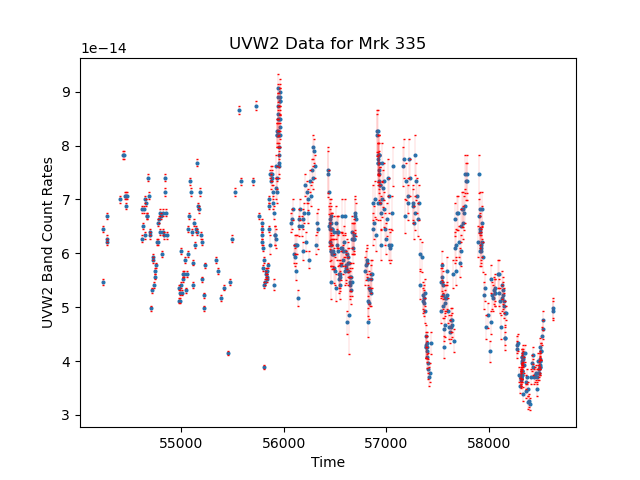
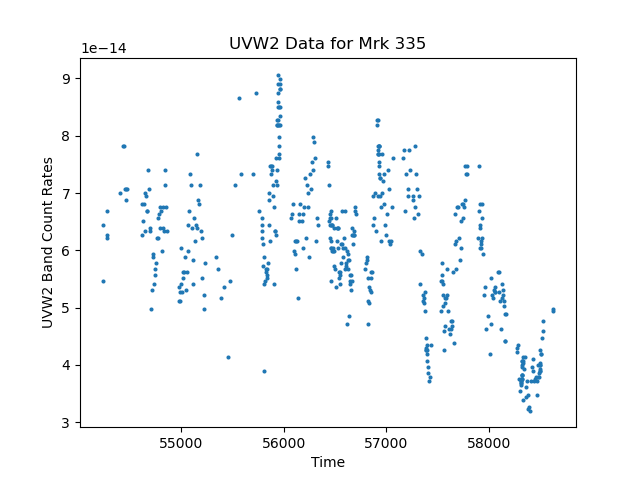
README cosmetics.

diff --git a/process_data.py b/process_data.py
@@ -107,7 +107,7 @@ if __name__ == '__main__':
 
     if f_plot:
         plt.scatter(x_ray_times, x_ray_band_count_rates, s=15, marker='.')
-        plt.errorbar(x_ray_times, x_ray_band_count_rates, yerr=x_ray_band_count_errors, elinewidth=0.1, capsize=0.5, barsabove=True, capthick=1, linestyle="None", ecolor='r')
+        #plt.errorbar(x_ray_times, x_ray_band_count_rates, yerr=x_ray_band_count_errors, elinewidth=0.1, capsize=0.5, barsabove=True, capthick=1, linestyle="None", ecolor='r')
         plt.xlabel('Time')
         plt.ylabel('X-ray Band Count Rate')
         plt.title('X-ray Data for Mrk 335')
@@ -115,7 +115,7 @@ if __name__ == '__main__':
         plt.show()
         plt.clf()
         plt.scatter(uv_cr_times, uv_band_count_rates, s=15, marker='.')
-        plt.errorbar(uv_cr_times, uv_band_count_rates, yerr=uv_band_count_errors, elinewidth=0.1, capsize=0.5, barsabove=True, capthick=1, linestyle="None", ecolor='r')
+        #plt.errorbar(uv_cr_times, uv_band_count_rates, yerr=uv_band_count_errors, elinewidth=0.1, capsize=0.5, barsabove=True, capthick=1, linestyle="None", ecolor='r')
         plt.xlabel('Time')
         plt.ylabel('UVW2 Band Count Rates')
         plt.title('UVW2 Data for Mrk 335')
@@ -123,7 +123,7 @@ if __name__ == '__main__':
         plt.show()
         plt.clf()
         plt.scatter(uv_mag_times, uv_band_magnitudes, s=15, marker='.')
-        plt.errorbar(uv_mag_times, uv_band_magnitudes, yerr=uv_band_magnitudes_errors, elinewidth=0.1, capsize=0.5, barsabove=True, capthick=1, linestyle="None", ecolor='r')
+        #plt.errorbar(uv_mag_times, uv_band_magnitudes, yerr=uv_band_magnitudes_errors, elinewidth=0.1, capsize=0.5, barsabove=True, capthick=1, linestyle="None", ecolor='r')
         plt.xlabel('Time')
         plt.ylabel('UVW2 Band Magnitudes')
         plt.title('UVW2 Data for Mrk 335')

diff --git a/gp_fit_real_data/fit_uv_real_data.py b/gp_fit_real_data/fit_uv_real_data.py
@@ -23,13 +23,6 @@ n_samples = 1000  # number of samples to generate
 m = None
 
 
-def objective_closure():
-    """
-    Objective function for GP-optimization
-    """
-    return -m.log_marginal_likelihood()
-
-
 if __name__ == '__main__':
 
     np.random.seed(42)  # Set the same random seed for training
@@ -80,14 +73,14 @@ if __name__ == '__main__':
             # Fix a noise level to be the average experimental error observed in the dataset (0.037) for magnitudes
             # Noise level is 2.0364e-15 for the flux values.
             # Standardisation destroys this information so setting noise to be mean of standardised values divided by
-            # the SNR in the orignal space.
+            # the SNR in the original space.
 
             fixed_noise = np.mean(np.abs(uv_band_flux/snr))
             set_trainable(m.likelihood.variance, False)  # We don't want to optimise the noise level in this case.
-            m.likelihood.variance = fixed_noise
+            m.likelihood.variance.assign(fixed_noise)
 
         opt = gpflow.optimizers.Scipy()
-        opt.minimize(objective_closure, m.trainable_variables, options=dict(maxiter=100))
+        opt.minimize(m.training_loss, m.trainable_variables, options=dict(maxiter=1000))
         print_summary(m)
 
         # We specify the grid of time points on which we wish to predict the count rate

diff --git a/structure_function/bootstrap_power_law_uncs.py b/structure_function/bootstrap_power_law_uncs.py
@@ -10,7 +10,7 @@ from matplotlib import pyplot as plt
 import matplotlib.ticker as mticker
 import numpy as np
 
-kernel = 'RQ'  # ['Matern' 'RQ'] are the options
+kernel = 'Matern'  # ['Matern' 'RQ'] are the options
 n_samples = 50
 bootstrap_samples = 200
 broken = False
@@ -166,7 +166,7 @@ def bootstrap_sample(tau, mean, std, bootstrap_samples, broken=False, uv=False, 
                 ax2.set_ylim([0.5, 3.5])
                 plt.xlim([10, 700])
                 plt.tight_layout()
-                fig.legend(loc=4, bbox_to_anchor=[0.275, 0.75, 0.15, 0])
+                fig.legend(loc=4, bbox_to_anchor=[0.275, 0.67, 0.15, 0])
                 ax2.yaxis.set_minor_locator(mticker.NullLocator())
                 plt.savefig(f'gif_figures/xray_{kernel}_{i}.png')
 
